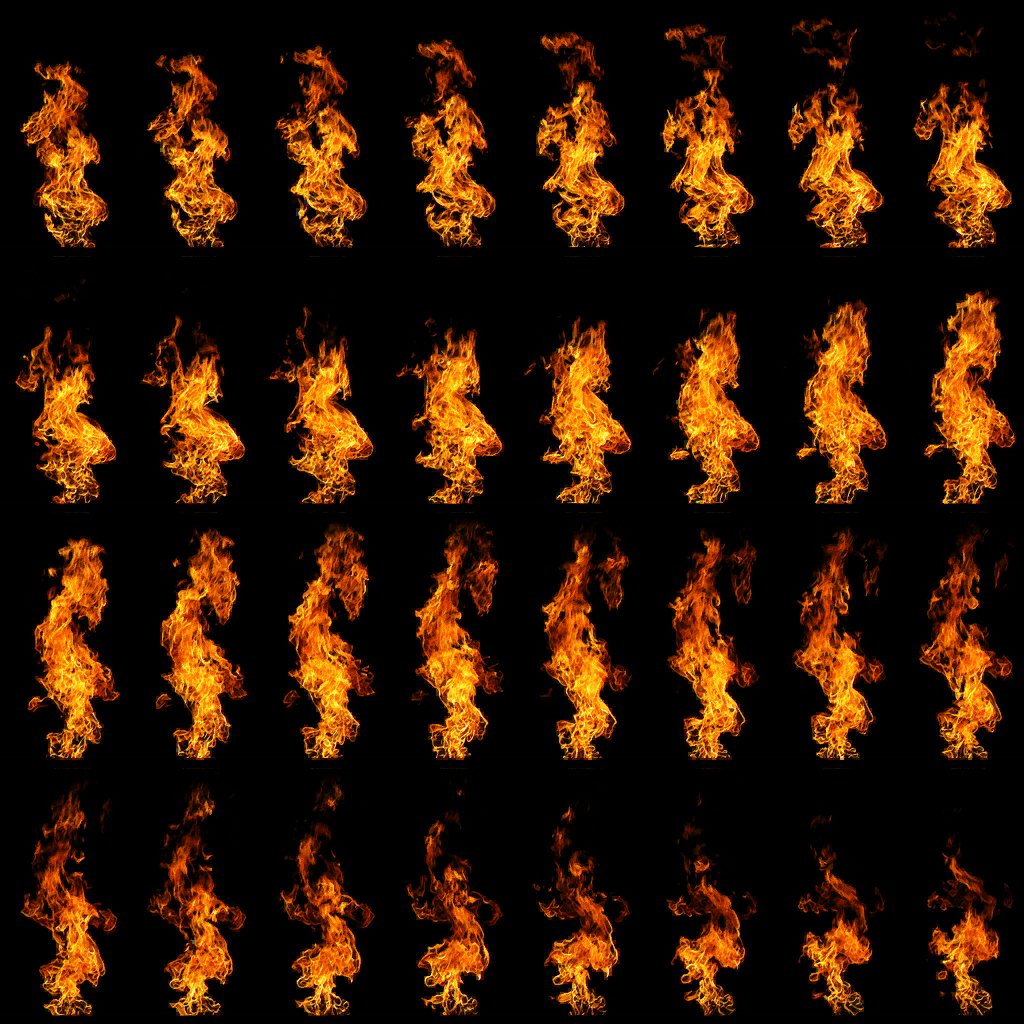
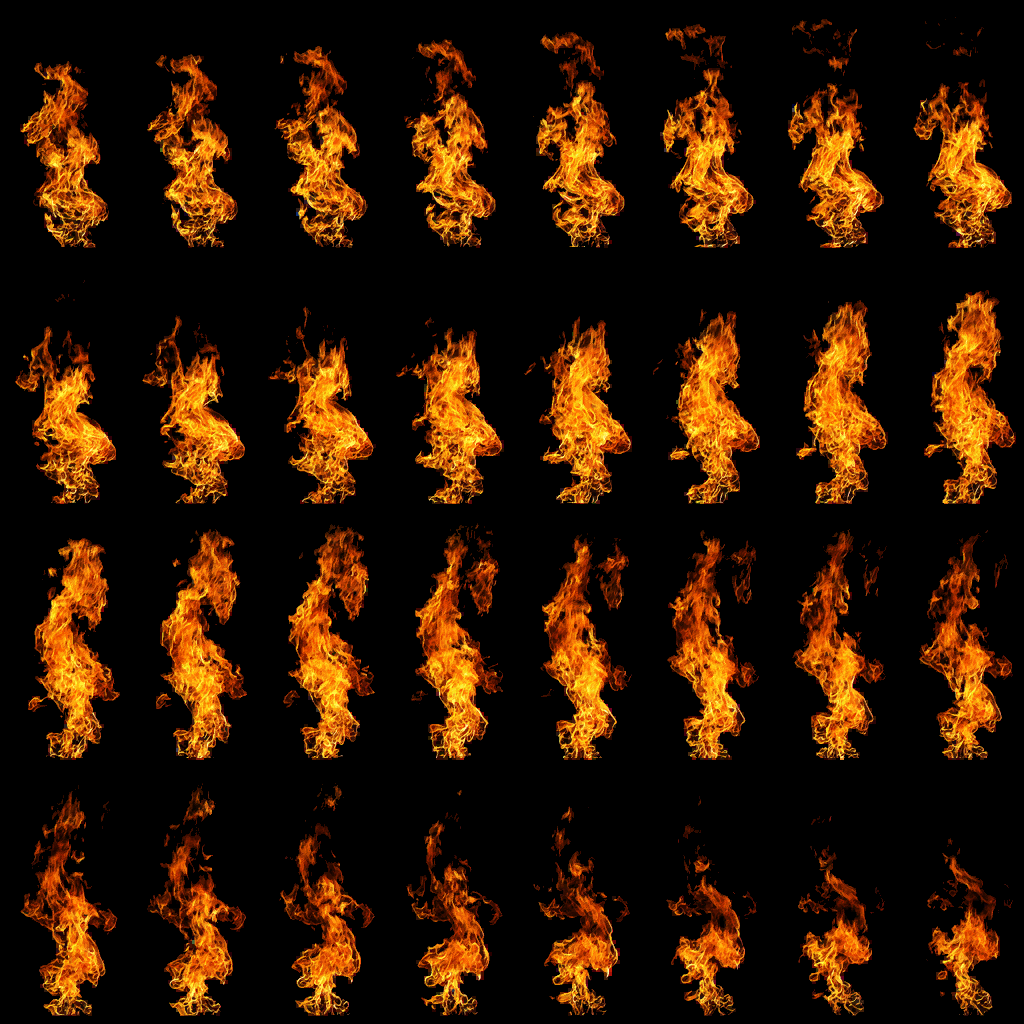
Effect Ver 1.0.3
포이느 스프라이트 파티클 형태를 변경하려함
그전에 커밋

Changed region(s): [[0.4375, 0.5, 0.4688, 0.5312]]

diff --git a/D3D_Base/cBreath.cpp b/D3D_Base/cBreath.cpp
@@ -1,0 +1,46 @@
+#include "stdafx.h"
+#include "cBreath.h"
+
+cBreath::cBreath()
+{
+}
+
+cBreath::~cBreath()
+{
+}
+
+void cBreath::Setup(int maxparticle)
+{
+	m_vbOffset = 0;
+	m_nMaxParticle = m_vbSize = maxparticle;
+	m_vbBatchSize = maxparticle;
+	m_fSize = 2.0f;
+
+	m_pTexture = g_pTextureManager->GetAniFxTexture(std::string("fx/breath1.png"));
+
+	g_pD3DDevice->CreateVertexBuffer(
+		m_vbSize * sizeof(ST_PC_VERTEX),
+		D3DUSAGE_DYNAMIC | D3DUSAGE_POINTS | D3DUSAGE_WRITEONLY,
+		ST_PC_VERTEX::FVF,
+		D3DPOOL_DEFAULT, // D3DPOOL_MANAGED can't be used with D3DUSAGE_DYNAMIC
+		&m_pEffect,
+		0);
+
+	ST_SPPT_DATA temp;
+	temp.isTriger = false;
+	temp.pos = D3DXVECTOR3(0, 0, 0);
+	temp.speed = 0.05f;
+	temp.color = D3DXCOLOR(1.0f, 1.0f, 1.0f, 1.0f);
+	temp.colorfade = D3DXCOLOR(0.0f, 0.0f, 0.0f, 0.01f);
+
+}
+
+void cBreath::Update()
+{
+
+}
+
+void cBreath::Render()
+{
+	cPtSEffect::Render();
+}

diff --git a/D3D_Base/cBillbordEffect.cpp b/D3D_Base/cBillbordEffect.cpp
@@ -28,8 +28,8 @@ void cBillbordEffect::PreRender()
 
 	g_pD3DDevice->SetRenderState(D3DRS_ALPHABLENDENABLE, true);
 	g_pD3DDevice->SetRenderState(D3DRS_ZWRITEENABLE, false);
-	g_pD3DDevice->SetRenderState(D3DRS_SRCBLEND, D3DBLEND_SRCALPHA);
-	g_pD3DDevice->SetRenderState(D3DRS_DESTBLEND, D3DBLEND_INVSRCALPHA);
+	g_pD3DDevice->SetRenderState(D3DRS_SRCBLEND, D3DBLEND_ONE);
+	g_pD3DDevice->SetRenderState(D3DRS_DESTBLEND, D3DBLEND_ONE);
 
 	D3DXMATRIXA16 view, bill;
 	g_pD3DDevice->GetTransform(D3DTS_VIEW, &view);
@@ -44,7 +44,6 @@ void cBillbordEffect::PreRender()
 
 void cBillbordEffect::Render()
 {
-
 }
 
 void cBillbordEffect::PostRender()

diff --git a/D3D_Base/cRandom.cpp b/D3D_Base/cRandom.cpp
@@ -1,0 +1,32 @@
+#include "stdafx.h"
+#include "cRandom.h"
+
+cRandom::cRandom()
+{
+	srand(GetTickCount());
+}
+
+cRandom::~cRandom()
+{
+}
+
+int cRandom::getInt(int num)
+{
+	return rand() % num;
+}
+
+int cRandom::getFromIntTo(int fromNum, int toNum)
+{
+	return (rand() % (toNum - fromNum + 1)) + fromNum;
+}
+
+float cRandom::getFloat(float num)
+{
+	return ((float)rand() / (float)RAND_MAX) * num;
+}
+
+float cRandom::getFromFloatTo(float fromFloat, float toFloat)
+{
+	float rnd = (float)rand() / (float)RAND_MAX;
+	return (rnd * (toFloat - fromFloat) + fromFloat);
+}

diff --git a/D3D_Base/cFireAni.h b/D3D_Base/cFireAni.h
@@ -5,18 +5,22 @@
 class cFireAni : public cBillbordEffect
 {
 private:
+	std::vector<ST_ANI_DATA> m_vecAniData;
 	int m_nFrameX;
 	int m_nFrameY;
-	int m_nCurFrameX;
-	int m_nCurFrameY;
-
-	int m_nTimeCount;
+	int m_nNumMakePtc;
+	float m_fDelyTime;
+	float m_fCurTime;
+	float m_fEffectRange;
+	bool m_isMake;
 
 public:
 	cFireAni();
 	virtual ~cFireAni();
 
-	void Setup();
+	void Setup(int maxparticle, float effectrange);
 	virtual void Update();
 	virtual void Render();
+
+	void ResetParticle(ST_ANI_DATA& data);
 };

diff --git a/D3D_Base/stdafx.h b/D3D_Base/stdafx.h
@@ -109,6 +109,15 @@ struct ST_PT_VERTEX
 	enum { FVF = D3DFVF_XYZ | D3DFVF_TEX1 };
 };
 
+struct ST_PTS_VERTEX
+{
+	D3DXVECTOR3 p;
+	D3DXVECTOR2 t;
+	float s;
+
+	enum { FVF = D3DFVF_XYZ | D3DFVF_TEX1 | D3DFVF_PSIZE };
+};
+
 struct ST_NODE_TM
 {
 	D3DXMATRIXA16 matTm;
@@ -165,6 +174,7 @@ struct ST_TNGLE_IDX
 #include "cGameObject.h"
 #include "cGameNode.h"
 
+#include "cRandom.h"
 #include "cDeviceManager.h"
 #include "cTextureManager.h"
 #include "cObjectManager.h"

diff --git a/D3D_Base/cEffectWork.h b/D3D_Base/cEffectWork.h
@@ -9,17 +9,20 @@ struct ST_SPPT_DATA
 	float life;
 	float age;
 	float roty;
+	float size;
 	D3DXCOLOR color;
 	D3DXCOLOR colorfade;
 	bool isAlive;
 	bool isTriger;
 
 	ST_SPPT_DATA()
-		: pos(0, 0, 0)
-		, dir(0, 0, 0)
-		, speed(0.f)
-		, life(0.f)
-		, age(0.f)
+		: pos(0.0f, 0.0f, 0.0f)
+		, dir(0.0f, 0.0f, 0.0f)
+		, speed(0.0f)
+		, life(0.0f)
+		, age(0.0f)
+		, roty(0.0f)
+		, size(0.0f)
 		, isAlive(true)
 	{
 		ZeroMemory(&color, sizeof(D3DXCOLOR));

diff --git a/D3D_Base/cFxScene.cpp b/D3D_Base/cFxScene.cpp
@@ -26,14 +26,14 @@ HRESULT cFxScene::Setup()
 	m_pGrid = new cGrid;
 	m_pGrid->Setup();
 
-	//m_pEffect = new cStamping;
-	//m_pEffect->Setup(90, 5.0f);
-	//
-	//m_pSton = new cStonPtcSplash;
-	//m_pSton->Setup(30);
-
+	m_pEffect = new cStamping;
+	m_pEffect->Setup(90, 5.0f);
+	
+	m_pSton = new cStonPtcSplash;
+	m_pSton->Setup(30);
+	
 	m_pFire = new cFireAni;
-	m_pFire->Setup();
+	m_pFire->Setup(100, 3.0f);
 
 	return S_OK;
 }

diff --git a/D3D_Base/cBillbordEffect.h b/D3D_Base/cBillbordEffect.h
@@ -4,7 +4,23 @@
 
 struct ST_ANI_DATA
 {
-
+	int nCurFrameX;
+	int nCurFrameY;
+	int nFrameCount;
+	float fLifeTime;
+	float fAge;
+	bool isAlive;
+	ST_PT_VERTEX vertex[4];
+	D3DXVECTOR3 vPos;
+	ST_ANI_DATA()
+		: nCurFrameX(0)
+		, nCurFrameY(0)
+		, nFrameCount(0)
+		, fLifeTime(0.f)
+		, fAge(0.f)
+		, isAlive(false)
+		, vPos(0, 0, 0)
+	{}
 };
 
 class cBillbordEffect : public cEffect

diff --git a/D3D_Base/cStamping.cpp b/D3D_Base/cStamping.cpp
@@ -1,6 +1,5 @@
 #include "stdafx.h"
 #include "cStamping.h"
-#include <time.h>
 
 cStamping::cStamping()
 {
@@ -12,8 +11,6 @@ cStamping::~cStamping()
 
 void cStamping::Setup(int maxparticle, float lange)
 {
-	srand(time(NULL));
-
 	m_vbOffset = 0;
 	m_nMaxParticle = m_vbSize = maxparticle;
 	m_vbBatchSize = maxparticle;

diff --git a/D3D_Base/cBreath.h b/D3D_Base/cBreath.h
@@ -1,0 +1,17 @@
+#pragma once
+
+#include "cPtSEffect.h"
+
+class cBreath : public cPtSEffect
+{
+private:
+
+
+public:
+	cBreath();
+	virtual ~cBreath();
+
+	void Setup(int maxparticle);
+	virtual void Update();
+	virtual void Render();
+};
